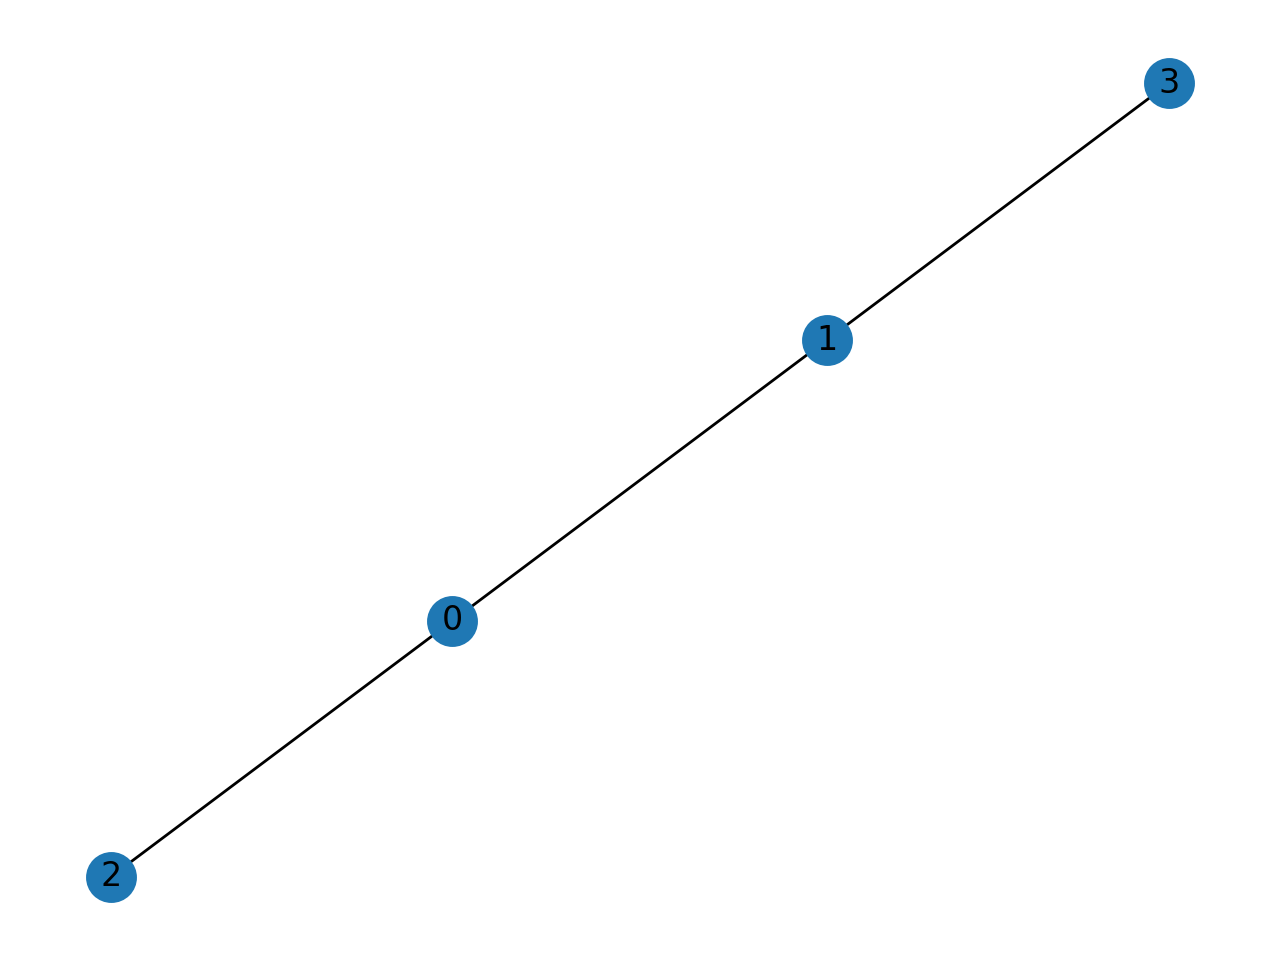
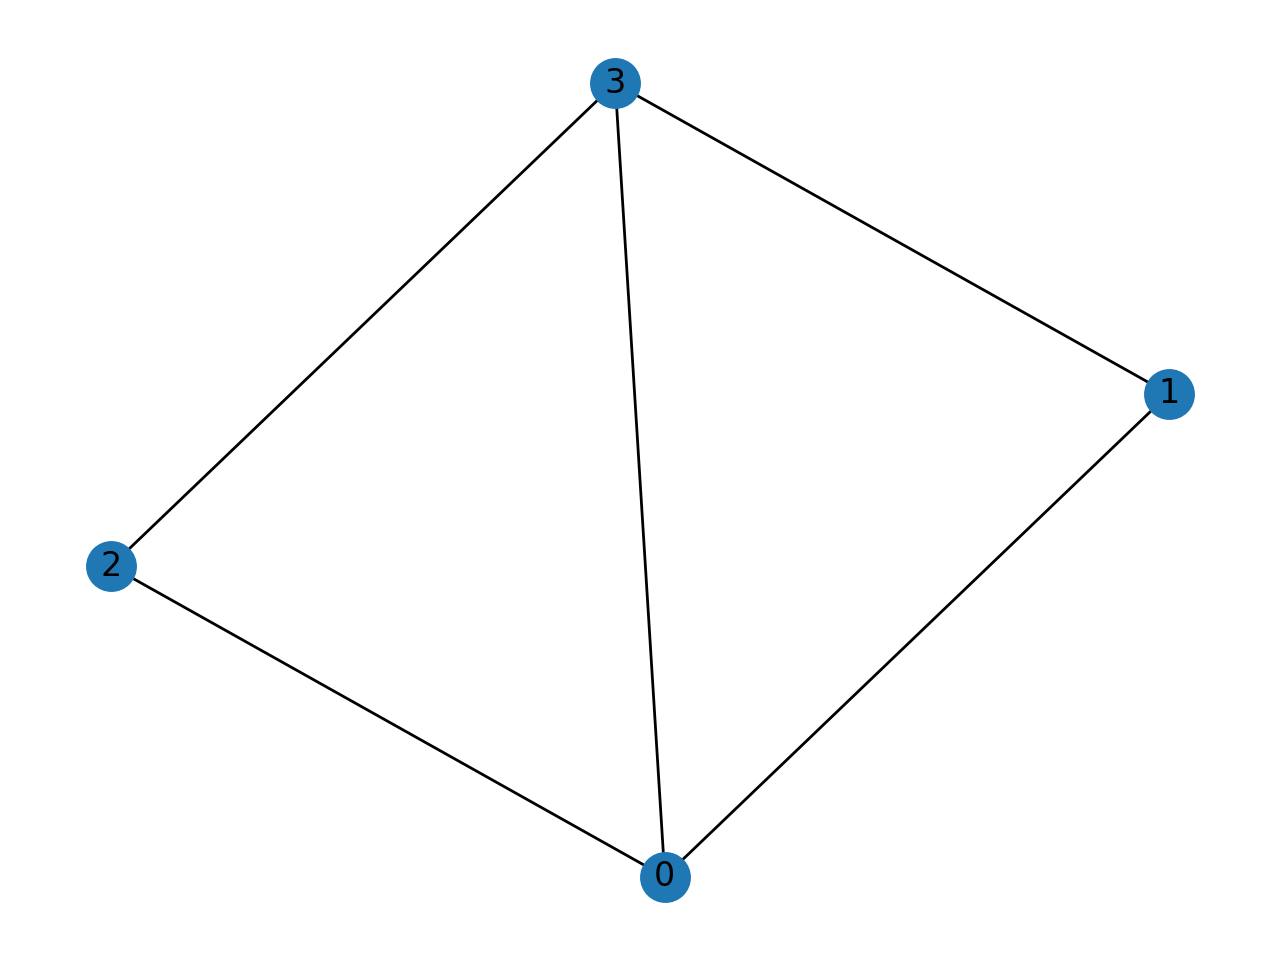
Remove graphs at start of run.

diff --git a/test/test_algo_p1.py b/test/test_algo_p1.py
@@ -11,6 +11,7 @@ from src.create_planar_triangle_free_graph import (
 from src.export_data.helper_dir_file_edit import delete_dir_if_exists
 from src.helper import (
     degree_receiver_x_y_is_connected_to_counter_z,
+    delete_files_in_folder,
     get_a_in_for_degree_receiver,
     get_degree_reciever_neurons_per_wta_circuit,
     get_expected_amount_of_degree_receiver_neurons,
@@ -51,6 +52,7 @@ class Test_counter(unittest.TestCase):
     def test_multiple_tests(self):
 
         # delete_dir_if_exists(f"latex/Images/graphs")
+        delete_files_in_folder(f"latex/Images/graphs")
 
         # Get list of planer triangle free graphs.
         m = 0
@@ -60,7 +62,7 @@ class Test_counter(unittest.TestCase):
             for size in range(3, 4, 1):
                 graphs.append(create_triangle_free_planar_graph(size, 0.6, 42, False))
             for G in graphs:
-                # G = create_manual_graph_with_4_nodes()
+                G = create_manual_graph_with_4_nodes()
                 # Initialise paramers used for testing.
                 test_object = create_test_object(G, retry, m, False, False)
 

diff --git a/src/helper.py b/src/helper.py
@@ -1,6 +1,8 @@
 import collections
 import itertools
+import os
 import random
+import shutil
 import networkx as nx
 
 from src.helper_snns import print_neuron_properties
@@ -557,3 +559,16 @@ def get_x_position(m):
         return float(1.0)
     if m == 1:
         return float(1.75)
+
+
+def delete_files_in_folder(folder):
+
+    for filename in os.listdir(folder):
+        file_path = os.path.join(folder, filename)
+        try:
+            if os.path.isfile(file_path) or os.path.islink(file_path):
+                os.unlink(file_path)
+            elif os.path.isdir(file_path):
+                shutil.rmtree(file_path)
+        except Exception as e:
+            print("Failed to delete %s. Reason: %s" % (file_path, e))
